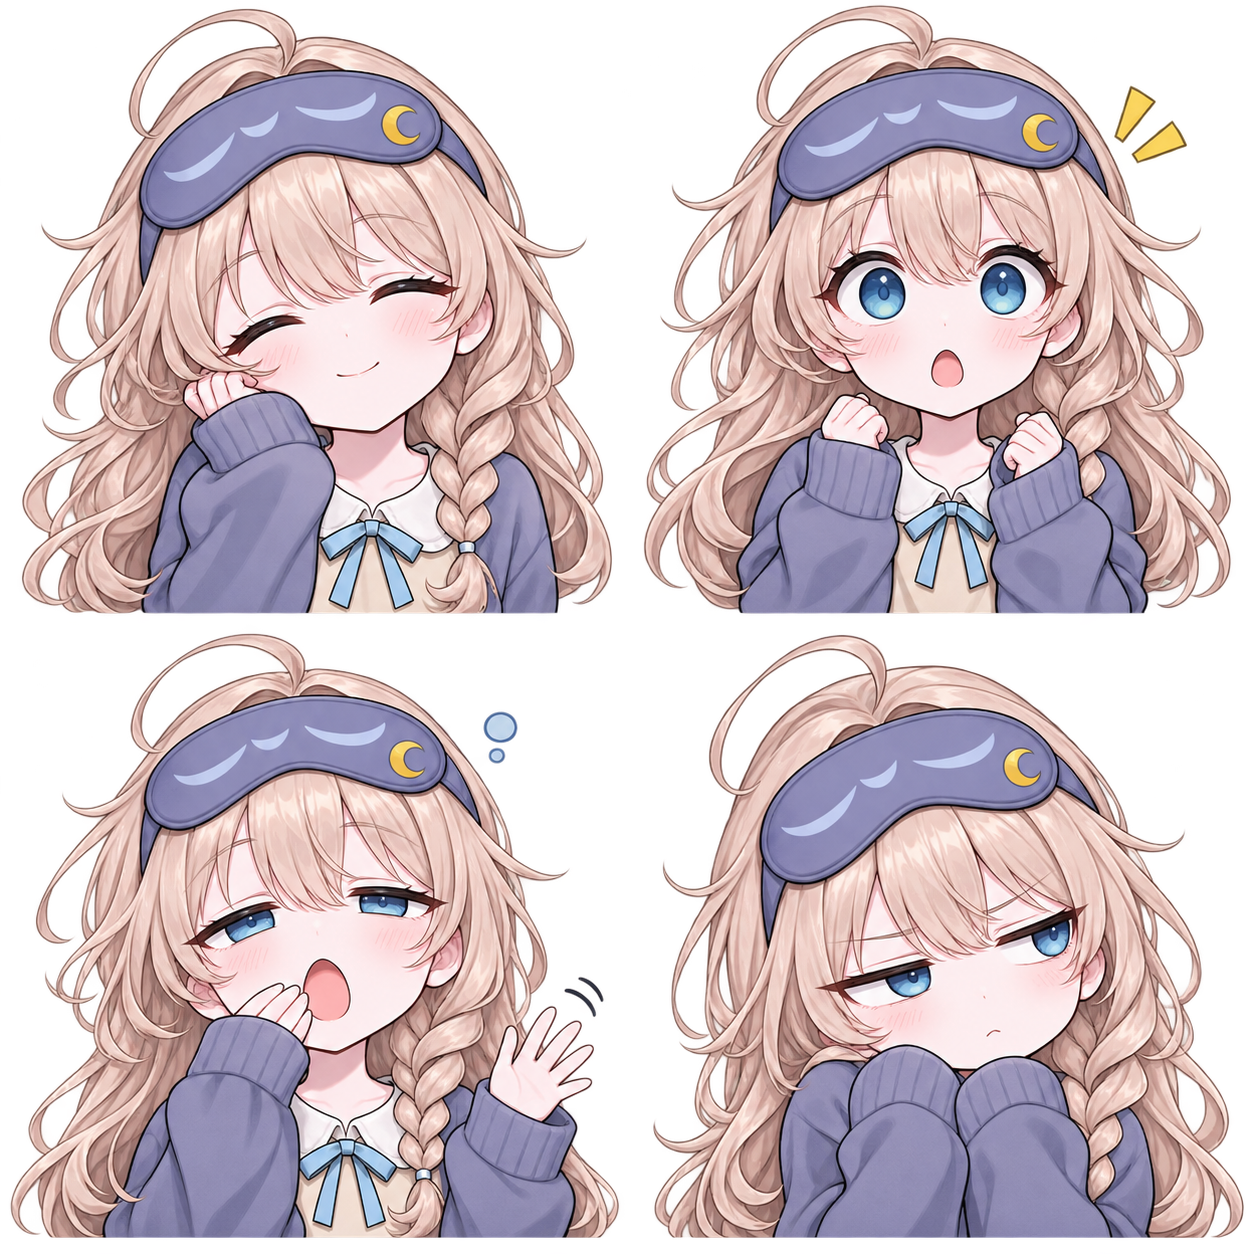
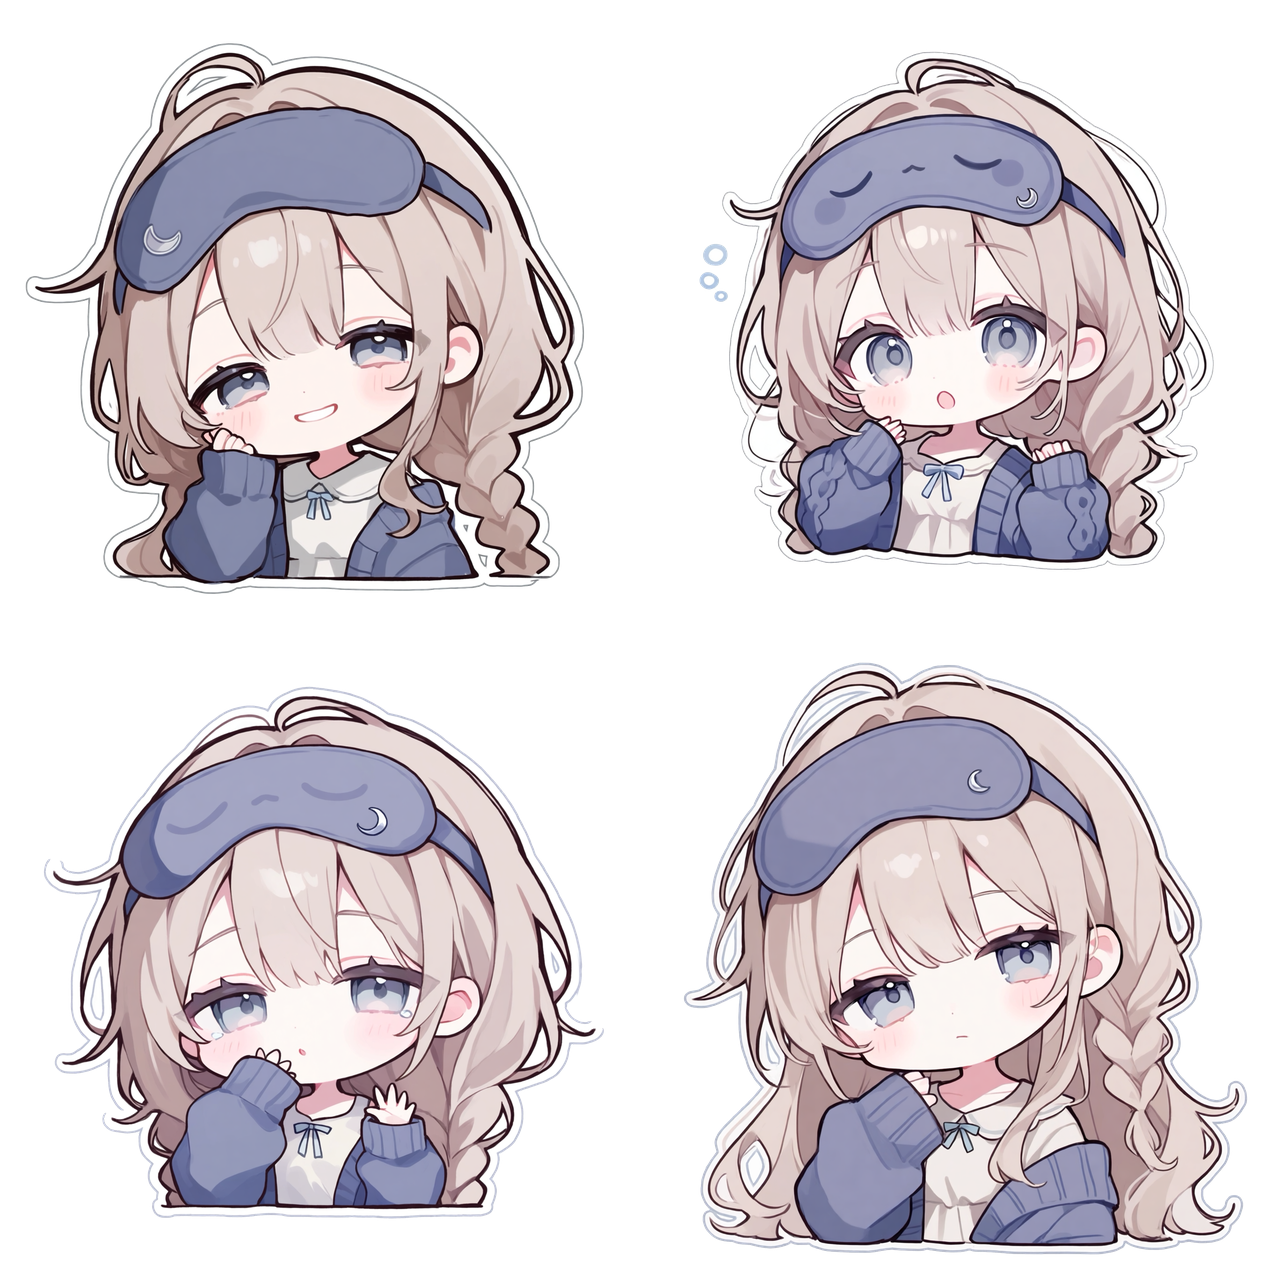
Replace emotes with transparent Drive stickers and add skill cut-ins
- Emotes: 16 user PixAI stickers from Drive, background made transparent
  (alpha only, RGB untouched), packed into 1280x1280 2x2 atlases
- Skill stage: slanted character cut-in for the first ~1.2s, then the
  existing card effect; pauses with the stage; Rosette falls back to her
  standing art until her cut-in exists
- Docs and emote manifest updated; test for cut-in fallback/privacy

Claude-Session: https://claude.ai/code/session_019NTVmeAHnNuLeDzivFVQzY

diff --git a/prototype/frontend/skills.css b/prototype/frontend/skills.css
@@ -36,3 +36,19 @@
 @keyframes redeal-scatter{0%,15%{transform:rotate(var(--card-angle)) translateY(-15px);opacity:0}40%{transform:rotate(calc(var(--card-angle) + 180deg)) translateY(-60px);opacity:1}85%,100%{transform:rotate(calc(var(--card-angle) + 360deg)) translateY(-140px);opacity:1}}
 @media(max-width:600px){.skill-portrait{width:280px;height:220px}.skill-stage .skill-quote{font-size:13px}.skill-stage .skill-result{font-size:13px;max-width:280px}.skill-stage h2{margin:8px}.skill-private{padding:10px 24px}.skill-effect{transform:scale(.8)}}
 @media(prefers-reduced-motion:reduce){.skill-effect .effect-card,.skill-effect .skill-ring{animation:none}.effect-gift .effect-card{transform:translate(105px,20px)}.effect-peek .effect-card{transform:translate(var(--offset),65px)}.effect-redeal .effect-card{transform:rotate(var(--card-angle)) translateY(-120px)}}
+/* Skill cut-in: character art slides in on a slanted band, flashes, then clears for the card effect (0–1.2s of the 3s stage). */
+.skill-cutin{position:absolute;inset:0;z-index:8;pointer-events:none;overflow:hidden;background:radial-gradient(ellipse at center,#2a2340f2,#1d1830fa);animation:cutin-out 3s linear both;animation-delay:var(--effect-delay,0ms);animation-play-state:var(--effect-state,running)}
+.cutin-band{position:absolute;left:-5%;right:-5%;top:50%;height:min(62%,380px);transform:translateY(-50%) skewY(-6deg);overflow:hidden;background:linear-gradient(100deg,#1d1830 0%,var(--accent) 55%,#fff8 100%);border-block:3px solid #fff;box-shadow:0 18px 50px #1d183055;animation:cutin-band 3s cubic-bezier(.2,.8,.2,1) both;animation-delay:inherit;animation-play-state:inherit}
+.cutin-art{position:absolute;inset:-8% 0;width:100%;height:116%;object-fit:cover;object-position:50% 30%;transform:skewY(6deg);animation:cutin-art 3s ease-out both;animation-delay:inherit;animation-play-state:inherit}
+.cutin-art.is-standing{object-fit:contain;object-position:85% 18%;height:260%;inset:-12% 0 auto}
+.cutin-title{position:absolute;left:12%;bottom:12%;padding:8px 18px;border-radius:6px;background:linear-gradient(90deg,#1d1830b3,#1d183000);transform:skewY(6deg);display:flex;flex-direction:column;align-items:flex-start;color:#fff;text-shadow:0 2px 10px #1d1830cc;animation:cutin-title 3s ease-out both;animation-delay:inherit;animation-play-state:inherit}
+.cutin-title small{letter-spacing:.3em;font-size:12px;opacity:.85}.cutin-title b{font-size:clamp(24px,4.4vw,44px);line-height:1.15}.cutin-title span{font-size:15px;opacity:.9}
+.cutin-flash{position:absolute;inset:0;background:#fff;opacity:0;animation:cutin-flash 3s linear both;animation-delay:inherit;animation-play-state:inherit}
+.skill-cutin>*{animation-delay:var(--effect-delay,0ms);animation-play-state:var(--effect-state,running)}
+@keyframes cutin-out{0%,36%{opacity:1;visibility:visible}42%,100%{opacity:0;visibility:hidden}}
+@keyframes cutin-band{0%{clip-path:inset(0 100% 0 0)}10%,100%{clip-path:inset(0 0 0 0)}}
+@keyframes cutin-art{0%{transform:skewY(6deg) translateX(-14%) scale(1.08)}12%{transform:skewY(6deg) translateX(0) scale(1.04)}40%{transform:skewY(6deg) translateX(3%) scale(1)}}
+@keyframes cutin-title{0%,8%{opacity:0;transform:skewY(6deg) translateX(-40px)}16%,100%{opacity:1;transform:skewY(6deg) translateX(0)}}
+@keyframes cutin-flash{0%,33%{opacity:0}37%{opacity:.85}42%,100%{opacity:0}}
+@media(max-width:600px){.cutin-band{height:46%}.cutin-title span{font-size:12px}}
+@media(prefers-reduced-motion:reduce){.skill-cutin{animation:cutin-out 3s steps(1) both}.cutin-band,.cutin-art,.cutin-title,.cutin-flash{animation:none}.cutin-flash{display:none}}

diff --git a/prototype/frontend/src/app.js b/prototype/frontend/src/app.js
@@ -1,7 +1,7 @@
-import {skillFeedback,skillEffectMarkup} from './skill-presentation.js';
+import {skillFeedback,skillEffectMarkup,skillCutinMarkup} from './skill-presentation.js';
 import {EMOTES,EMOTE_DURATION,canSendEmote,privateDrawCue,emoteSprite,emoteLabel} from './emotes.js';
 import {createGame,dispatch,nextActive,pairs,label,POINTS,SKILLS,skillUnavailable,botSkillAction,viewFor} from './game.js';
-import {CHARACTERS,imagePath,readProfile,saveProfile} from './data.js';
+import {CHARACTERS,imagePath,cutinPath,readProfile,saveProfile} from './data.js';
 const app=document.querySelector('#app');
 let profile=readProfile(),screen='home',game=null,deadline=0,job=null,paused=false,pauseRemaining=0,modal=null,selectedCharacter=profile.character,emoteOpen=false,emoteUntil=0,lastEmote=null,emoteText='',dragged=null,scored=false;
 let audioCtx,sortMode=false,sortCard=null,skillTarget=1,skillRemaining=0,skillResumeActor=null,animationUntil=0;
@@ -32,7 +32,7 @@ function revealStage(){const d=game.draw,joker=d.card.rank===0;return `<div clas
 function skillStage(){
  const event=viewFor(game,0).skill,skill=SKILLS[event.kind],feedback=skillFeedback(event);
  const elapsed=Math.max(0,Math.min(3000,3000-(paused?pauseRemaining:animationUntil-Date.now())));
- return `<div class="skill-stage skill-${feedback.type}" role="status" style="--effect-delay:-${elapsed}ms;--effect-state:${paused?'paused':'running'};--accent:${character(event.actor).color}"><span class="eyebrow">${event.reflected?'SKILL REFLECTED':'ONCE PER SET'}</span><div class="skill-portrait">${skillEffectMarkup(event)}<img src="${imagePath(character(event.actor))}" alt="${esc(seatName(event.actor))}"></div><h2>${skill.name}</h2><p class="skill-quote">“${feedback.quote}”</p><p>${esc(seatName(event.actor))}${event.target===null?'의 스킬':` → ${esc(seatName(event.target))}`}</p><p class="skill-result">${feedback.result}</p>${event.card?`<div class="skill-private"><small>${feedback.privateLabel}</small><strong>${event.card.suit} ${label(event.card)}</strong></div>`:''}<small>연출 중에는 행동 시간이 흐르지 않아요.</small></div>`;
+ return `<div class="skill-stage skill-${feedback.type}" role="status" style="--effect-delay:-${elapsed}ms;--effect-state:${paused?'paused':'running'};--accent:${character(event.actor).color}">${skillCutinMarkup(character(event.actor),{name:esc(seatName(event.actor)),skillName:skill.name,cutin:cutinPath(character(event.actor)),standing:imagePath(character(event.actor))})}<span class="eyebrow">${event.reflected?'SKILL REFLECTED':'ONCE PER SET'}</span><div class="skill-portrait">${skillEffectMarkup(event)}<img src="${imagePath(character(event.actor))}" alt="${esc(seatName(event.actor))}"></div><h2>${skill.name}</h2><p class="skill-quote">“${feedback.quote}”</p><p>${esc(seatName(event.actor))}${event.target===null?'의 스킬':` → ${esc(seatName(event.target))}`}</p><p class="skill-result">${feedback.result}</p>${event.card?`<div class="skill-private"><small>${feedback.privateLabel}</small><strong>${event.card.suit} ${label(event.card)}</strong></div>`:''}<small>연출 중에는 행동 시간이 흐르지 않아요.</small></div>`;
 }
 function skillDialog(){
  const kind=game.players[0].character,skill=SKILLS[kind],targets=game.players.filter(p=>p.id!==0&&p.hand.length);

diff --git a/prototype/frontend/src/data.js b/prototype/frontend/src/data.js
@@ -6,5 +6,8 @@ export const CHARACTERS=[
  {id:'yuna',assetId:'rosette',name:'로제트',tag:'살롱의 분위기 메이커',color:'#eb9caa',portrait:{size:'400%',x:'50%',y:'9%'},emoteLabels:{laugh:'아하하! 최고!',shock:'에에에?!',hello:'다들 안녕!',think:'너, 딱 걸렸어!'}}
 ];
 export const imagePath=c=>`assets/characters/${c.assetId??c.id}.png`;
+// Skill cut-in art from the shared Drive (스킬 folder). Characters without one fall back to their standing art.
+export const SKILL_CUTINS={serena:'assets/skills/serena.webp',elysia:'assets/skills/elysia.webp',lunea:'assets/skills/lunea.webp'};
+export const cutinPath=c=>SKILL_CUTINS[c.assetId??c.id]??null;
 export function readProfile(){try{const p=JSON.parse(localStorage.getItem('joker-profile-v1'));return {nickname:typeof p?.nickname==='string'?p.nickname.slice(0,16):'플레이어',character:Number.isInteger(p?.character)&&p.character>=0&&p.character<4?p.character:0,sound:p?.sound!==false,sets:Number.isInteger(p?.sets)?p.sets:0};}catch{return {nickname:'플레이어',character:0,sound:true,sets:0};}}
 export function saveProfile(p){try{localStorage.setItem('joker-profile-v1',JSON.stringify(p));return true;}catch{return false;}}

diff --git a/prototype/frontend/src/skill-presentation.js b/prototype/frontend/src/skill-presentation.js
@@ -15,3 +15,8 @@ export function skillEffectMarkup(event){
  const n=event.kind===3?8:event.kind===1?3:1;
  return `<div class="skill-effect effect-${type}${event.reflected?' is-reflected':''}" aria-hidden="true"><i class="skill-ring ring-one"></i><i class="skill-ring ring-two"></i>${Array.from({length:n},(_,i)=>`<span class="effect-card" style="--card-index:${i};--card-angle:${i*45}deg"><i></i></span>`).join('')}</div>`;
 }
+// Full-width character cut-in shown at the start of every skill. Purely decorative: no card data.
+export function skillCutinMarkup(character,{name,skillName,cutin,standing}){
+ const art=cutin?`<img class="cutin-art" src="${cutin}" alt="">`:`<img class="cutin-art is-standing" src="${standing}" alt="">`;
+ return `<div class="skill-cutin" aria-hidden="true" style="--accent:${character.color}"><div class="cutin-band">${art}<div class="cutin-title"><small>SKILL</small><b>${skillName}</b><span>${name}</span></div></div><i class="cutin-flash"></i></div>`;
+}

diff --git a/docs/EMOTES.md b/docs/EMOTES.md
@@ -17,8 +17,11 @@
 
 ## 적용 및 검증
 
-세레나·엘리시아·루네아·로제트 각각 1254×1254 RGBA 아틀라스 한 장을 저장했다. CSS가 2×2 칸을 선택하며 이미지를 별도로 잘라 재저장하지 않는다. 기존 저장 프로필과 API ID는 유지하고 assetId로 새 이미지 경로를 연결했다. 각 반응의 대사도 캐릭터별로 다르다.
+2026-11-06: 드라이브 `조커게임/1차작업/이모티콘`의 사용자 PixAI 스티커 16장으로 교체했다(파일 번호 1 웃음, 2 당황, 3 인사, 4 의심). 원본은 1408×1408 흰 배경이다.
 
-Chromium에서 홈·16종 갤러리·4인 캐릭터 선택·AI 대전 시작·공개 이모티콘 전송을 확인했다. 390px 모바일 갤러리의 가로 넘침을 수정했다. 새 자산은 이미지 생성으로 제작했으므로 전신 참조와의 픽셀 단위 동일성을 의미하지 않는다.
+- 배경 투명화는 알파 채널만 바꿨다. 이미지 가장자리와 이어진 거의 흰색 영역(min RGB ≥ 236)만 투명하게 만들고, 스티커 외곽선이 흐려 배경이 새어 들어간 곳은 메워서 흰 스티커 테두리를 보존했다. RGB는 수정하지 않았다.
+- 캐릭터별로 각 칸을 640×640으로 줄여 1280×1280 2×2 아틀라스 한 장으로 저장했다. CSS 좌표와 저장 프로필/API ID는 그대로다.
+- Chromium에서 16종 갤러리와 게임 중 이모티콘 전송을 확인했다. 어두운 배경 위에서도 배경 잔여물 없이 흰 테두리만 남는다.
+- 장식(반짝이, 꽃 링, 땀방울 등)은 스티커 밖에 떠 있어도 흰색이 아니면 유지된다.
 
-다운로드: `output/character-assets/character-emotes.zip`. 검수 화면: `emotes-preview-desktop.png`, `emotes-preview-mobile.png`.
+이전(이미지 생성 기반) 아틀라스는 git 이력에 남아 있다.

diff --git a/docs/CHARACTER-ASSETS.md b/docs/CHARACTER-ASSETS.md
@@ -18,3 +18,17 @@
 - `output/character-assets/transparent-characters.zip`: 게임에 적용한 투명 PNG 4장과 manifest.
 
 피부톤·얼굴·눈·머리·의상·체형·포즈를 임의로 수정하지 않는다. 이모티콘과 게임 코드는 이번 교체에서 변경하지 않았다.
+
+## 스킬 컷인
+
+2026-11-06: 스킬 발동 3초 연출의 처음 약 1.2초에 캐릭터 컷인이 기울어진 띠로 들어왔다가 플래시와 함께 사라지고, 기존 카드 이펙트가 이어진다. 일시정지 시 다른 스킬 이펙트와 같이 멈춘다. 카드 정보는 컷인에 표시하지 않는다.
+
+| 캐릭터 | 게임 파일 | 원본 (드라이브 `조커게임/1차작업/스킬`) |
+| --- | --- | --- |
+| 세레나 | `prototype/frontend/assets/skills/serena.webp` | `serena-skill.png` 1888×1056 |
+| 엘리시아 | `prototype/frontend/assets/skills/elysia.webp` | `elysia-skill.png` 1888×1056 |
+| 루네아 | `prototype/frontend/assets/skills/lunea.webp` | `lunea-skill.png` 1280×720 |
+| 로제트 | 없음 → 스탠딩으로 대체 | 드라이브에 아직 없음 |
+
+- 1280px 너비 WebP(품질 86)로 줄여 저장했다. 다른 보정은 하지 않았다.
+- 로제트 컷인을 만들면 `assets/skills/rosette.webp`로 넣고 `data.js`의 `SKILL_CUTINS`에 한 줄 추가하면 된다.
